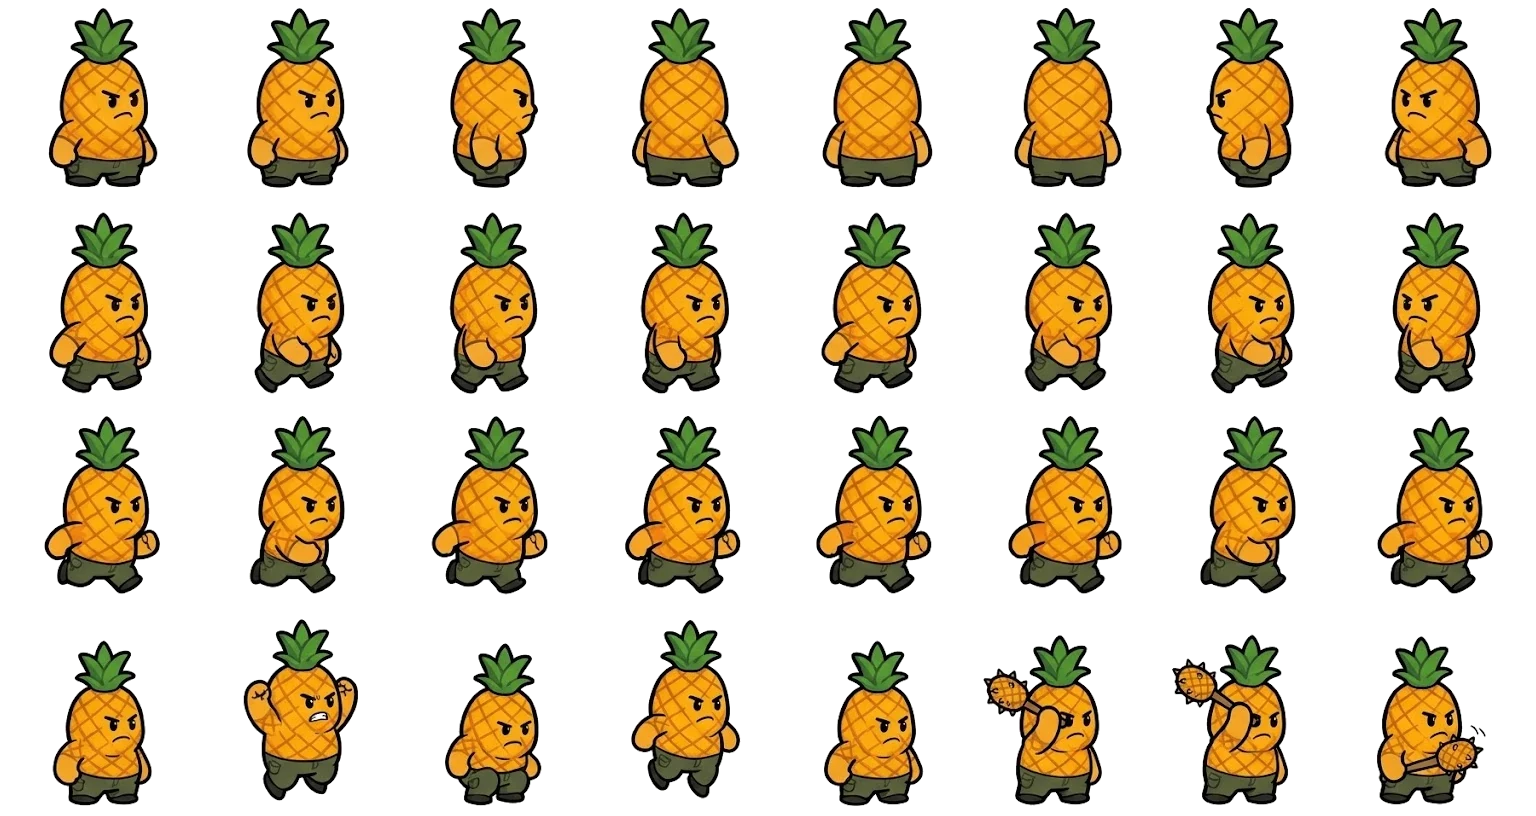
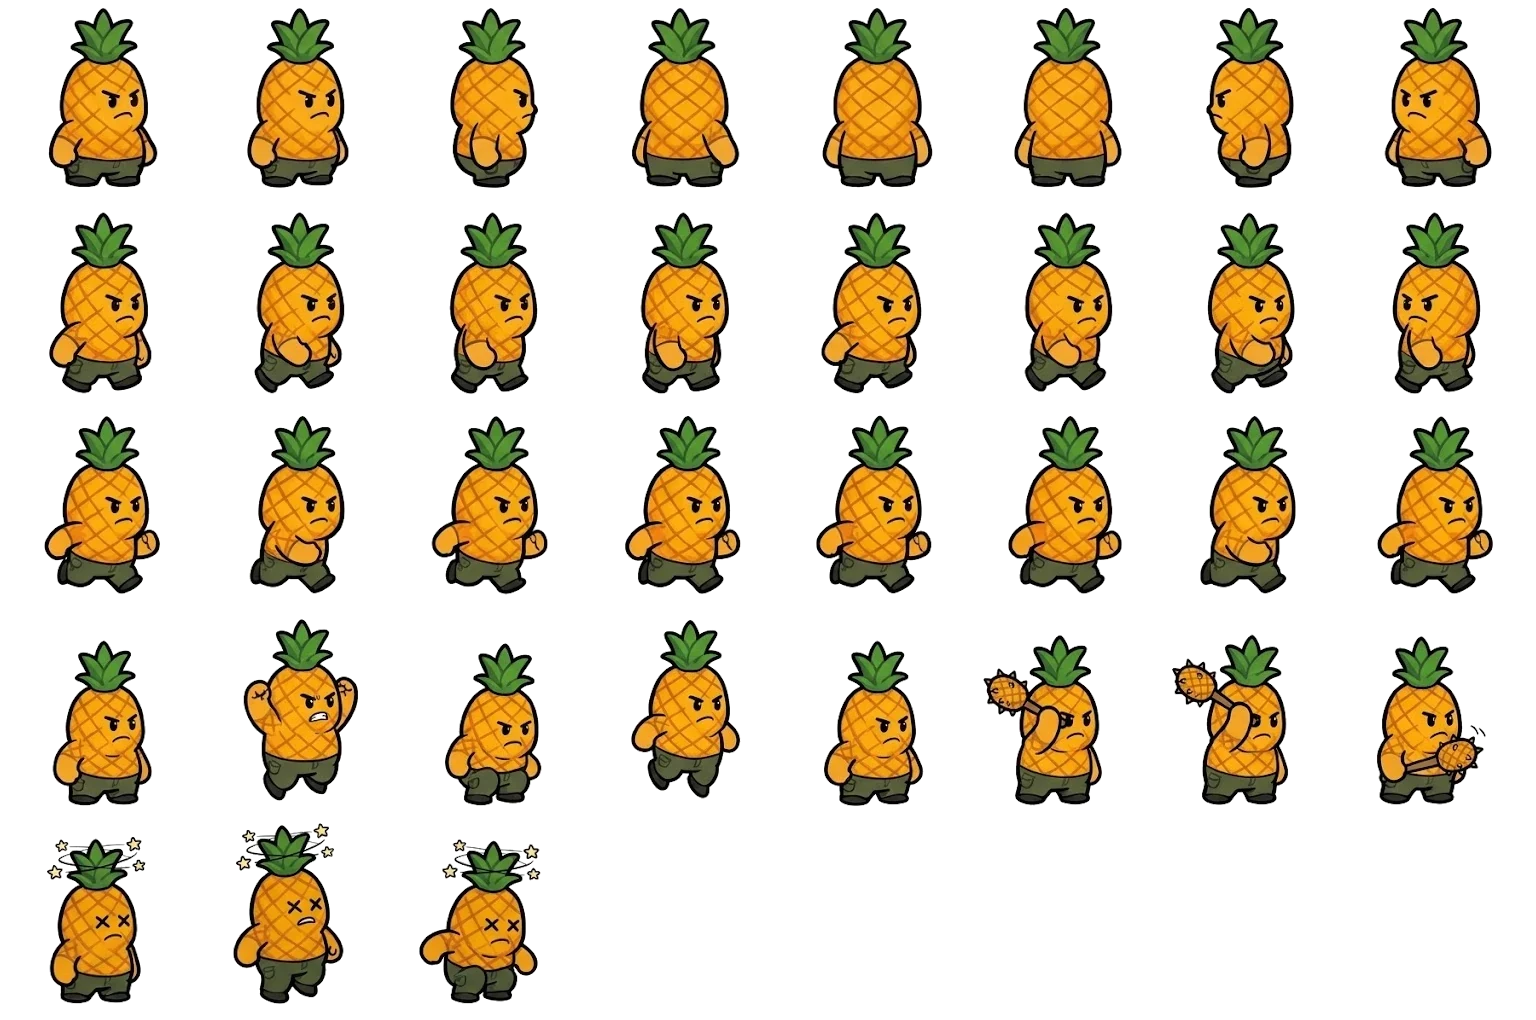
Ananassone stordito con gli occhi a X, cerchio rosso dove atterrerà
- quando è stordito usa i fotogrammi nuovi con le stelline
- al posto della linea tratteggiata, un cerchio rosso tenue nel punto
  dove si fermerà il lancio (calcolato con gli stessi controlli dell'urto)
- anche la guida usa il cerchio

diff --git a/game.js b/game.js
@@ -553,7 +553,7 @@ const ARENE=[
  ["############################","#                          #","#   c                  c   #","#-------      c     -------#","#         ----------       #","#                          #","#      B            B      #","#-------            -------#","#         ----------       #","#             c            #","#                          #","#   B  c            c  B   #","###########      ###########","###########      ###########"],
  ["############################","#                          #","#            c             #","#      --------------      #","#  c                    c  #","#-----                -----#","#        B        B        #","#     --------------       #","#                          #","#---                    ---#","#                          #","#  c     B         B    c  #","######   ##########   ######","######   ##########   ######"]
 ];
-/* Ananassone disegnato: 32 fotogrammi da 192x204 in righe da 8, guarda a destra. 0-7 si gira, 8-15 cammina, 16-23 corre, 25 arrabbiato, 29-30 mazza alzata */
+/* Ananassone disegnato: fotogrammi da 192x204 in righe da 8, guarda a destra. 0-7 si gira, 8-15 cammina, 16-23 corre, 25 arrabbiato, 29-30 mazza alzata, 32-34 stordito */
 const ANAS=new Image();ANAS.src='assets/boss_ananas.webp';
 function disegnaAnanas(c,f,z,verso){if(!ANAS.complete)return false;const k=z/185;c.save();if(verso<0)c.scale(-1,1);c.drawImage(ANAS,f%8*192,Math.floor(f/8)*204,192,204,-96*k,-118*k,192*k,204*k);c.restore();return true;}
 const BOSPR=[0,1,2].map(n=>{const k=document.createElement('canvas');k.width=k.height=240;const c=k.getContext('2d'),o='#2b2b3a';c.lineWidth=10;c.lineJoin='round';c.strokeStyle=o;
@@ -582,12 +582,14 @@ function dopoStordito(b){
  if(c.raggiera){for(let i=0;i<10;i++){const a=i/10*6.283;M.colpi.push({x:b.x,y:b.y,vx:Math.cos(a)*3.4,vy:Math.sin(a)*3.4,v:6.5});}suono(420,.3,'sawtooth',.08,180);}
  if(c.servi&&M.nemici.filter(n=>n.vivo).length<3)M.nemici.push({tipo:'r',x:b.x,y:b.y,px:b.x,py:b.y,vx:0,vy:0,vivo:true,fase:0});
 }
+/* dove si fermerà il lancio: stessi controlli dell'urto in passoBoss */
+function arrivoBoss(b){let x=b.x,y=b.y;for(let i=0;i<400;i++){if(pieno(cel(Math.round(x+b.dx*b.r),Math.round(y+b.dy*b.r)))||pieno(cel(Math.round(x+b.dx*b.r),Math.round(y)))||pieno(cel(Math.round(x),Math.round(y+b.dy*b.r)))||y<b.r+1.5)break;x+=b.dx*.08;y+=b.dy*.08;}return{x:x+b.dx*b.r,y:Math.max(y,b.r+1.5)+b.dy*b.r};}
 function raggioBoss(b){let l=1;while(l<40&&!pieno(cel(Math.round(b.x+b.dx*l),Math.round(b.y+b.dy*l))))l+=.25;return l;}
 function passoBoss(dt){
  const b=M.boss,p=P2;if(!b||b.vita<=0)return;b.t-=dt;b.lampo=Math.max(0,b.lampo-dt);
  const dx=p.x-b.x,dy=p.y-b.y,d=Math.hypot(dx,dy)||1;
  if(b.stato==='fermo'){b.x=clamp(b.x+dx/d*1.2*dt,2.5,M.w-3.5);b.y=clamp(b.y+dy/d*1.2*dt,3.2,M.alto-3.2);if(b.t<=0){b.stato='mira';b.t=1.1;}}
- else if(b.stato==='mira'){if(b.t>.25){b.dx=dx/d;b.dy=dy/d;}b.lung=raggioBoss(b);if(b.t<=0){b.stato='carica';sfx('throw')||suono(110,.4,'sawtooth',.1,330);}}
+ else if(b.stato==='mira'){if(b.t>.25){b.dx=dx/d;b.dy=dy/d;}b.lung=raggioBoss(b);b.arrivo=arrivoBoss(b);if(b.t<=0){b.stato='carica';sfx('throw')||suono(110,.4,'sawtooth',.1,330);}}
  else if(b.stato==='carica'){b.x+=b.dx*b.cfg.scatto*dt;b.y+=b.dy*b.cfg.scatto*dt;
   const qx=Math.round(b.x+b.dx*b.r),qy=Math.round(b.y+b.dy*b.r);
   if(pieno(cel(qx,qy))||pieno(cel(Math.round(b.x+b.dx*b.r),Math.round(b.y)))||pieno(cel(Math.round(b.x),Math.round(b.y+b.dy*b.r)))||b.y<b.r+1.5){b.stato='stordito';b.t=b.cfg.stordito;b.vy=0;b.x-=b.dx*.3;b.y=Math.max(b.y-b.dy*.3,b.r+1.5);schizzi2(b.x,b.y,20,'#f6c445',6);suono(90,.35,'square',.13,50);vibra(70);G.scossa=riduci?0:.45;avviso('Stordito: scattagli addosso!',1300);}}
@@ -604,17 +606,18 @@ function passoBoss(dt){
 }
 function disegnaBoss(c,sx,sy,ts){
  const b=M.boss;if(!b||b.vita<=0)return;const a=sx(b.x),q=sy(b.y),z=b.r*ts*2.9;
- if(b.stato==='mira'){c.strokeStyle='#ff3b2e';c.lineWidth=Math.max(4,ts*.3);c.setLineDash([ts*.6,ts*.4]);c.globalAlpha=.7;c.beginPath();c.moveTo(a,q);c.lineTo(sx(b.x+b.dx*b.lung),sy(b.y+b.dy*b.lung));c.stroke();c.setLineDash([]);c.globalAlpha=1;}
+ /* mentre prende la mira, un cerchio rosso segna il punto dove atterrerà */
+ if(b.stato==='mira'&&b.arrivo){const gx=sx(b.arrivo.x),gy=sy(b.arrivo.y),rr=ts*(.5+.06*Math.sin(G.t*12));c.save();c.globalAlpha=.5;c.strokeStyle='#ff3b2e';c.lineWidth=Math.max(2,ts*.1);c.beginPath();c.arc(gx,gy,rr,0,6.3);c.stroke();c.globalAlpha=.18;c.fillStyle='#ff3b2e';c.fill();c.restore();}
  c.save();c.translate(a+(b.stato==='mira'?rnd(-2,2):0),q);
  if(M.i===0&&ANAS.complete){const p=P2,v=b.stato==='carica'||b.stato==='mira'?Math.sign(b.dx)||1:Math.sign(p.x-b.x)||1;
-  const f=b.stato==='carica'?16+Math.floor(G.t*18)%8:b.stato==='mira'?(b.t>.75?25:b.t>.6?29:30):b.stato==='stordito'?Math.floor(G.t*7)%8:8+Math.floor(G.t*8)%8;
-  if(b.stato==='fermo')c.translate(0,Math.sin(G.t*3)*ts*.06);if(b.lampo>0&&Math.floor(G.t*24)%2)c.globalAlpha=.35;if(b.stato==='stordito')c.filter='saturate(.6) brightness(1.1)';
+  const f=b.stato==='carica'?16+Math.floor(G.t*18)%8:b.stato==='mira'?(b.t>.75?25:b.t>.6?29:30):b.stato==='stordito'?32+Math.floor(G.t*5)%3:8+Math.floor(G.t*8)%8;
+  if(b.stato==='fermo')c.translate(0,Math.sin(G.t*3)*ts*.06);if(b.lampo>0&&Math.floor(G.t*24)%2)c.globalAlpha=.35;
   disegnaAnanas(c,f,z,v);c.restore();}
  else{
  if(b.stato==='carica')c.rotate(Math.sin(G.t*30)*.25);else if(b.stato==='stordito')c.rotate(.28*Math.sin(G.t*7));else c.translate(0,Math.sin(G.t*3)*ts*.1);
  if(b.lampo>0&&Math.floor(G.t*24)%2)c.globalAlpha=.35;if(b.stato==='stordito')c.filter='saturate(.45) brightness(1.15)';
  c.drawImage(b.sp,-z/2,-z/2,z,z);c.restore();}
- if(b.stato==='stordito'){c.fillStyle='#f6c445';c.strokeStyle='#2b2b3a';c.lineWidth=2;for(let i=0;i<5;i++){const u=G.t*5+i*1.257,px=a+Math.cos(u)*ts*1.2,py=q-z*.42+Math.sin(u)*ts*.3;c.beginPath();c.arc(px,py,ts*.17,0,6.3);c.fill();c.stroke();}}
+ if(b.stato==='stordito'&&!(M.i===0&&ANAS.complete)){c.fillStyle='#f6c445';c.strokeStyle='#2b2b3a';c.lineWidth=2;for(let i=0;i<5;i++){const u=G.t*5+i*1.257,px=a+Math.cos(u)*ts*1.2,py=q-z*.42+Math.sin(u)*ts*.3;c.beginPath();c.arc(px,py,ts*.17,0,6.3);c.fill();c.stroke();}}
 }
 
 /* ---------- LA BOMBA: il cibo carica, una caduta alta o uno schianto fanno esplodere ---------- */
@@ -662,8 +665,8 @@ function gCaduta(c,t){gFondo(c);for(let i=0;i<3;i++)sp(c,'terrain_sand_horizonta
 function gSchianto(c,t){gFondo(c);for(let i=0;i<3;i++)sp(c,'terrain_sand_block_center',GW-40,GS-40*(i+1),41,41);const a=clamp(t/.5,0,1),x=20+a*a*(GW-80),boom=(t-.5)/.32;gBarra(c,boom>=0?0:.9);
  const bx=boom>=0?GW-60-clamp(boom,0,1)*70:x;disegnaPalla(c,bx,GS-GR,GR,bx*.09,0,true);if(boom<0)for(let i=1;i<4;i++){c.strokeStyle='#2b2b3a66';c.lineWidth=2;c.beginPath();c.moveTo(x-GR-i*9,GS-8-i*8);c.lineTo(x-GR-i*20,GS-8-i*8);c.stroke();}gBoom(c,GW-50,GS-24,boom,66);}
 function gStanza(c){gFondo(c);for(let i=0;i<5;i++)sp(c,'terrain_sand_cloud_middle',20+i*34,62,35,35);for(let i=0;i<5;i++)sp(c,'block_exclamation',GW-22,GS-22*(i+1),23,23);}
-function gBossS(c,x,y,st,t){const z=70;c.save();c.translate(x,y);if(!disegnaAnanas(c,st?Math.floor(t*20)%8:16+Math.floor(t*16)%8,z,1)){if(st)c.rotate(.25*Math.sin(t*30));c.drawImage(BOSPR[0],-z/2,-z/2,z,z);}c.restore();if(st){c.fillStyle='#f6c445';c.strokeStyle='#2b2b3a';c.lineWidth=1.5;for(let i=0;i<5;i++){const a=t*20+i*1.257;c.beginPath();c.arc(x+Math.cos(a)*30,y-30+Math.sin(a)*8,4.5,0,6.3);c.fill();c.stroke();}}}
-function gLancio(c,t){gStanza(c);const e=clamp((t-.3)/.3,0,1),x=60+e*180,y=40+e*(GS-70),mz=t<.3;if(mz){c.strokeStyle='#ff3b2e';c.lineWidth=5;c.setLineDash([12,8]);c.beginPath();c.moveTo(60,40);c.lineTo(240,GS-30);c.stroke();c.setLineDash([]);}gBossS(c,x+(mz?rnd(-1,1):0),y,false,t);const j=clamp((t-.22)/.3,0,1);disegnaCamm(c,190-j*90,GS-Math.sin(j*3.14)*46,GR,j>0&&j<1?2:0,3,-1,0,0);}
+function gBossS(c,x,y,st,t){const z=70;c.save();c.translate(x,y);if(!disegnaAnanas(c,st?32+Math.floor(t*12)%3:16+Math.floor(t*16)%8,z,1)){if(st)c.rotate(.25*Math.sin(t*30));c.drawImage(BOSPR[0],-z/2,-z/2,z,z);}c.restore();if(st){c.fillStyle='#f6c445';c.strokeStyle='#2b2b3a';c.lineWidth=1.5;for(let i=0;i<5;i++){const a=t*20+i*1.257;c.beginPath();c.arc(x+Math.cos(a)*30,y-30+Math.sin(a)*8,4.5,0,6.3);c.fill();c.stroke();}}}
+function gLancio(c,t){gStanza(c);const e=clamp((t-.3)/.3,0,1),x=60+e*180,y=40+e*(GS-70),mz=t<.3;if(mz){c.save();c.globalAlpha=.5;c.strokeStyle='#ff3b2e';c.lineWidth=3;c.beginPath();c.arc(240,GS-30,14,0,6.3);c.stroke();c.globalAlpha=.18;c.fillStyle='#ff3b2e';c.fill();c.restore();}gBossS(c,x+(mz?rnd(-1,1):0),y,false,t);const j=clamp((t-.22)/.3,0,1);disegnaCamm(c,190-j*90,GS-Math.sin(j*3.14)*46,GR,j>0&&j<1?2:0,3,-1,0,0);}
 function gSbatte(c,t){gStanza(c);const e=clamp(t/.3,0,1),x=70+e*165,hit=t>.3,y=hit?Math.min(GS-34,80+(t-.3)*400):80;gBossS(c,x,y,hit,t);gBoom2(c,GW-34,80,(t-.3)/.3);disegnaCamm(c,50,GS,GR,0,0,1,0,0);}
 function gColpo(c,t){gStanza(c);const e=clamp((t-.25)/.2,0,1),x=30+e*165,hit=t>.45;gBossS(c,235,GS-34,hit?0:t+.5,t);if(!hit)gTelefono(c,GW/2,30,0,-1,t>.15&&t<.3);disegnaPalla(c,hit?195-(t-.45)*120:x,GS-GR,GR,x*.09,0,true);gBoom2(c,212,GS-30,(t-.45)/.3);
  const q=hit?2:3;c.strokeStyle='#2b2b3a';c.lineWidth=2;for(let i=0;i<3;i++){c.fillStyle=i<q?'#d8432e':'#ffffff88';c.beginPath();c.roundRect(112+i*28,8,24,10,4);c.fill();c.stroke();}}

diff --git a/CLAUDE.md b/CLAUDE.md
@@ -6,7 +6,7 @@ Gioco per browser pensato per il telefono in orizzontale, pubblicato con GitHub 
 - `index.html`: solo il markup delle schermate (menu, guida, amici e skin, pausa, fine, HUD).
 - `style.css`: lo stile, con i colori come variabili su `:root`.
 - `game.js`: tutta la logica, in un unico script classico chiuso in una funzione e diviso in sezioni `/* ---------- NOME ---------- */`: orientamento, salvataggio, mondi e tappe, kit grafico e sonoro, skin, palla dipinta, audio, stato, comandi, cuori, corsa 2D, boss 2D, la bomba, guida, flusso, menu, ciclo.
-- `assets/`: `kit.webp` (atlante dei blocchi Kenney, coordinate in `KMAP`), `personaggio.webp` e `personaggio2.webp` (fogli delle animazioni di Matteo), `fumo.webp`, `polvere.webp`, `esplosione.webp`, `pizza.webp`, `kit2.webp` (altri pezzi del kit), `pixel.webp` (caselle da 18: erba del Pixel Platformer per il terreno del mondo 1 e terra del kit Farm Expansion per le grotte), `bomba.webp` (Matteo carico al massimo: 37 fotogrammi da 160 in righe da 10, mappa in `disegnaBomba`), `boss_ananas.webp` (Ananassone: 32 fotogrammi da 192x204 in righe da 8, mappa in `disegnaAnanas` e `disegnaBoss`; gli altri due boss sono ancora disegnati nel codice in `BOSPR`), `fondi/*.webp`, `suoni/*.mp3`.
+- `assets/`: `kit.webp` (atlante dei blocchi Kenney, coordinate in `KMAP`), `personaggio.webp` e `personaggio2.webp` (fogli delle animazioni di Matteo), `fumo.webp`, `polvere.webp`, `esplosione.webp`, `pizza.webp`, `kit2.webp` (altri pezzi del kit), `pixel.webp` (caselle da 18: erba del Pixel Platformer per il terreno del mondo 1 e terra del kit Farm Expansion per le grotte), `bomba.webp` (Matteo carico al massimo: 37 fotogrammi da 160 in righe da 10, mappa in `disegnaBomba`), `boss_ananas.webp` (Ananassone: fotogrammi da 192x204 in righe da 8, 32-34 stordito, mappa in `disegnaAnanas` e `disegnaBoss`; gli altri due boss sono ancora disegnati nel codice in `BOSPR`), `fondi/*.webp`, `suoni/*.mp3`.
 - `tools/build.py`: ricompone tutto in `dist/cicciobomba.html`, un file unico con le risorse dentro, che si apre con un doppio clic. `dist/` è generata ed esclusa da git: non modificarla a mano.
 
 ## Regole
@@ -44,6 +44,7 @@ Gioco per browser pensato per il telefono in orizzontale, pubblicato con GitHub 
   - **Ripartenza:** dopo una caduta si riparte solo da terra vera (`#`), mai da un blocco che crolla.
 - Gli sprite nuovi vengono dal New Platformer Pack e stanno in `assets/kit2.webp`: pulsante, lucchetto, peso, mattoni e i blocchi con la faccia. `sp()` li disegna quando la voce di `KMAP` ha un terzo valore.
 - Misure per disegnare i pezzi: una molla fa salire di circa 4,9 caselle e un salto di circa 2,3; per atterrare su una piattaforma il centro di Matteo deve superarne la cima di 0,46. Ogni salto difficile va provato nel browser.
+- Mentre il boss prende la mira, un cerchio rosso tenue segna dove atterrerà (`arrivoBoss`, che rifà gli stessi controlli dell'urto). Niente linea tratteggiata: all'utente sembrava troppo evidente.
 - L'arena del boss è un `M` senza i campi dei livelli (`nomi`, `pesi`, `crolli`…): ogni uso di quei campi va protetto. Il boss ha raggio 0,95.
 - Per provare dei pezzi a parte da console: `__rotolamici.iniziaRun(['nome',...])` (alla fine torna al menu). La Spremiananas è stata tolta perché non piaceva: non rimetterla.
 
